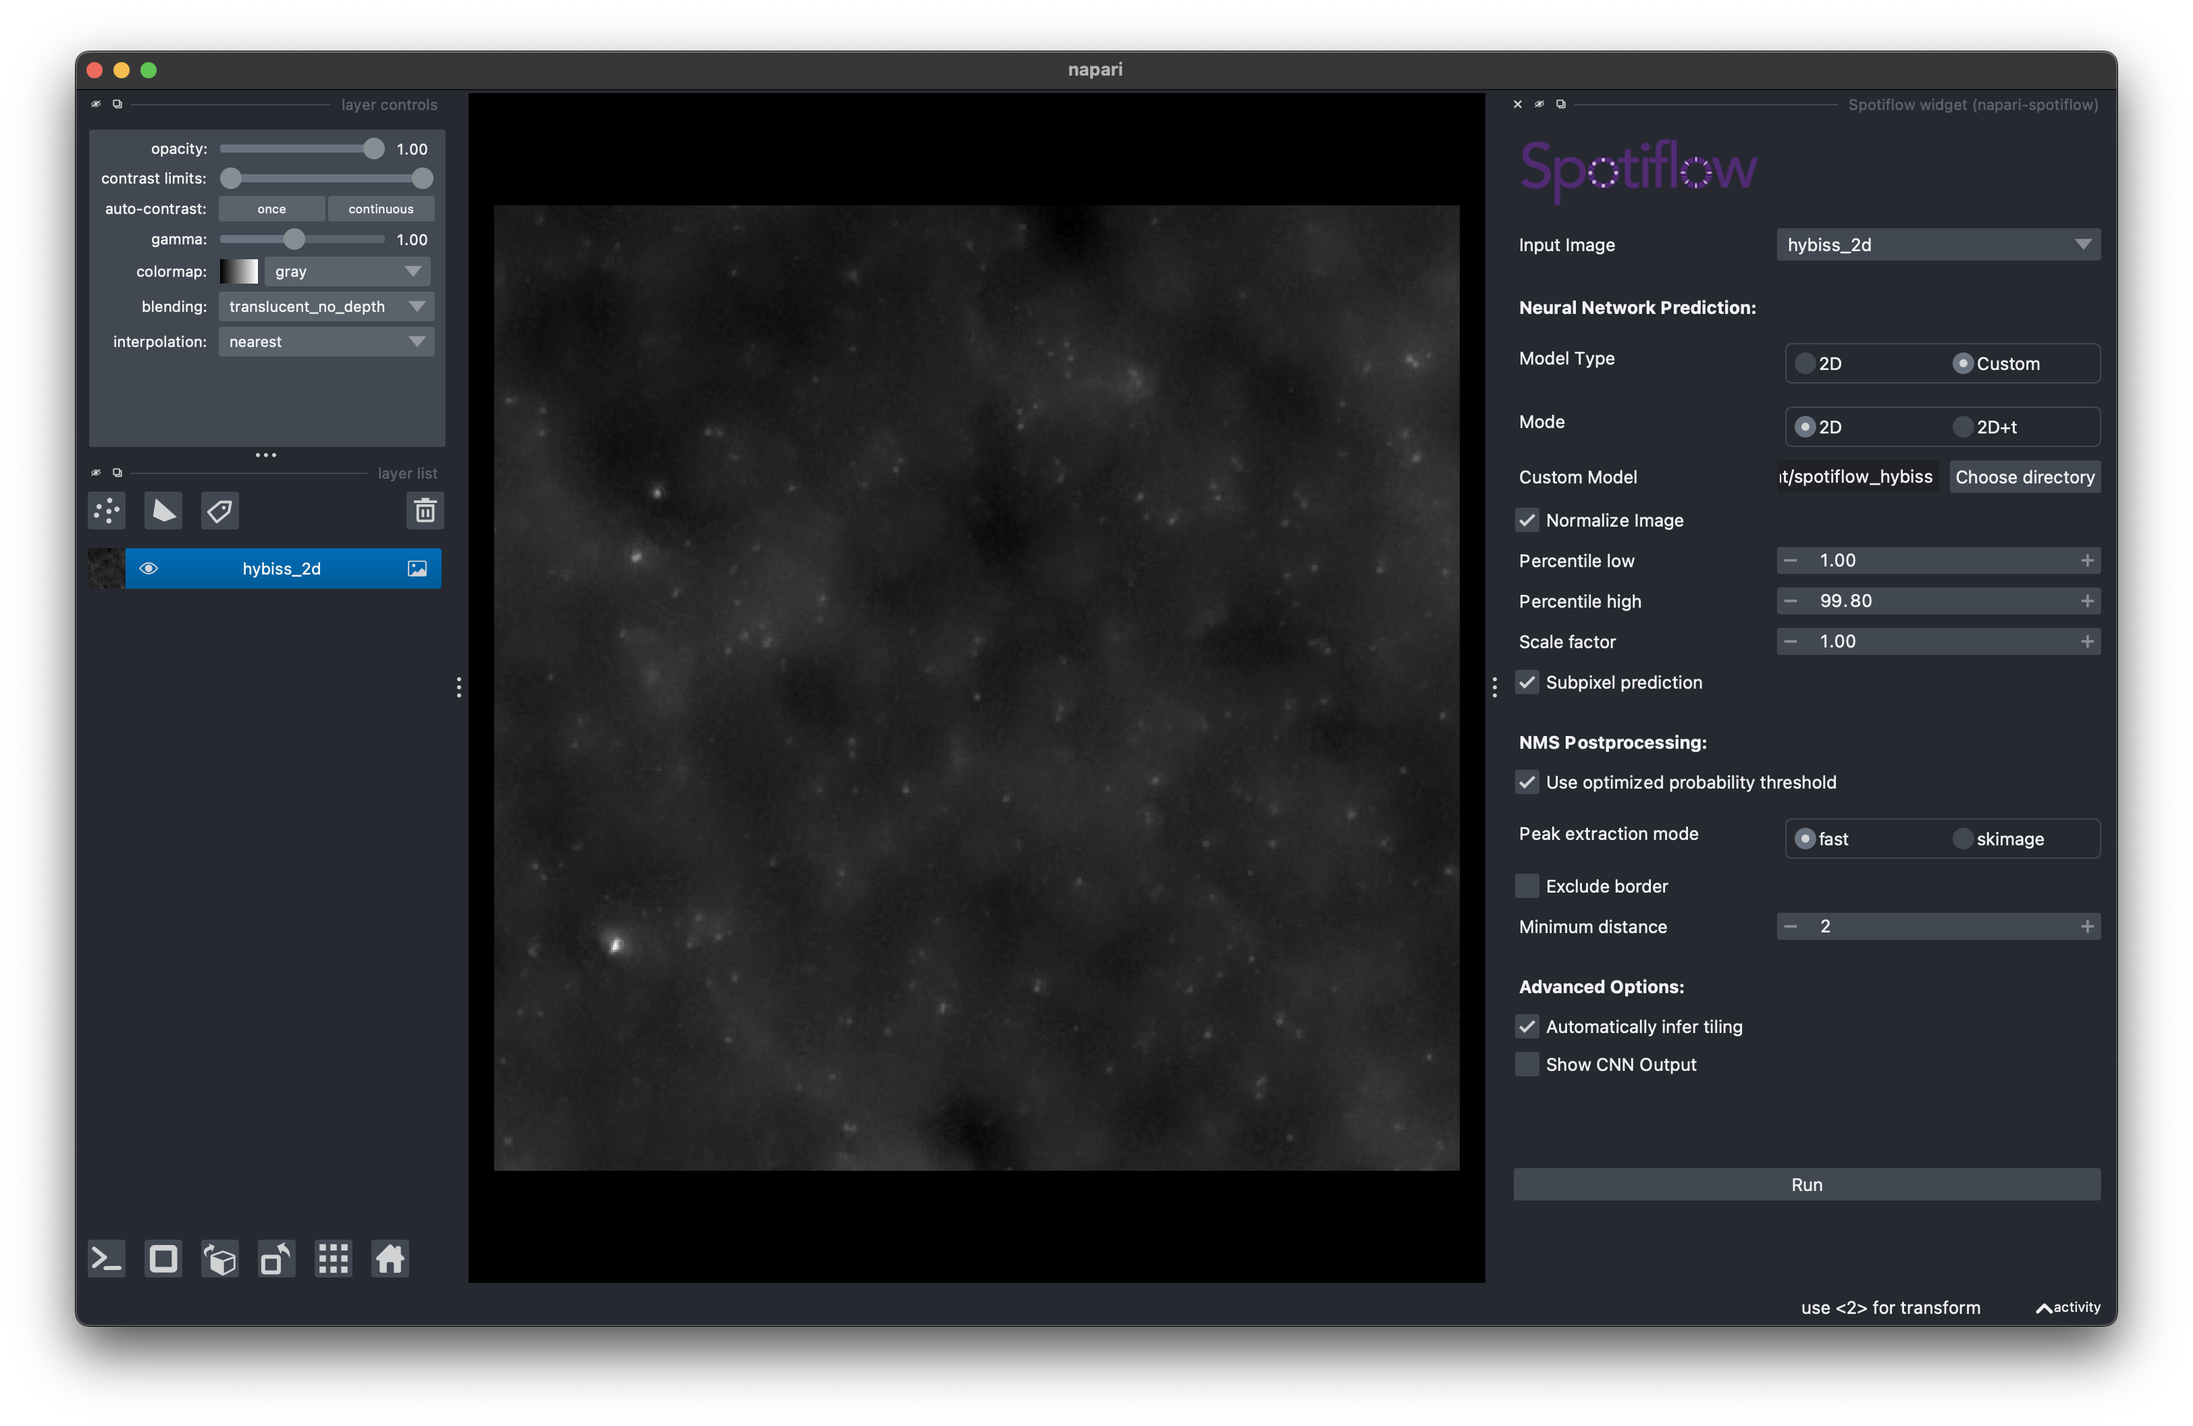
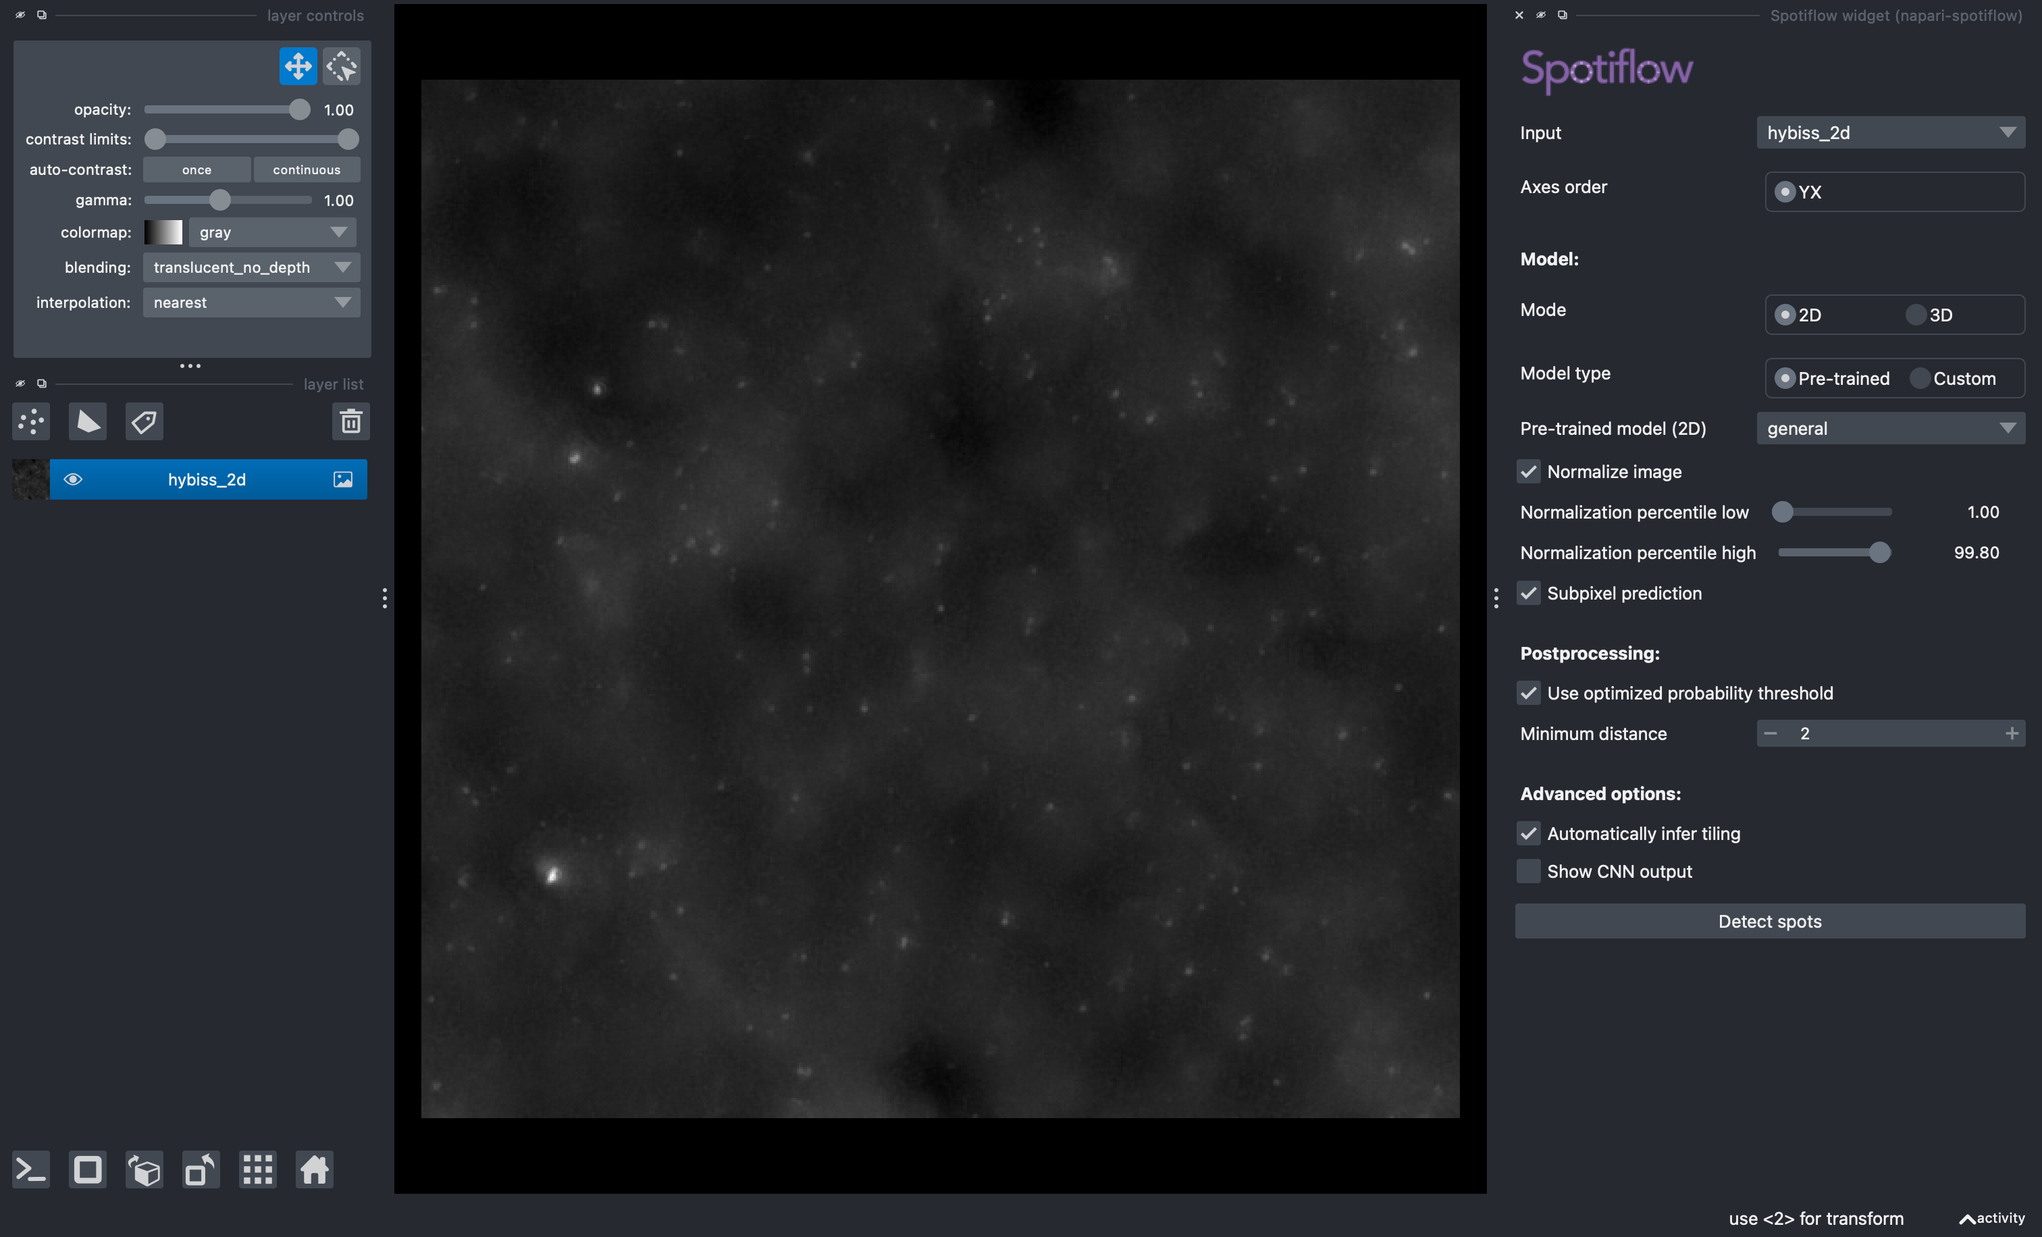
docs update

diff --git a/docs/source/index.rst b/docs/source/index.rst
@@ -9,25 +9,24 @@ Spotiflow is a learning-based subpixel-accurate spot detection method for 2D and
 Getting Started
 ---------------
 
-Installation
-~~~~~~~~~~~~
+Installation (pip)
+~~~~~~~~~~~~~~~~~~
 
 
-First, create and activate a fresh ``conda`` environment (we currently support Python 3.9 to 3.12). If you don't have ``conda`` installed, we recommend using `miniforge <https://github.com/conda-forge/miniforge>`__.
+First, create and activate a fresh ``conda`` environment (we currently support Python 3.9 to 3.13). If you don't have ``conda`` installed, we recommend using `miniforge <https://github.com/conda-forge/miniforge>`__.
 
 .. code-block:: console
 
    $ conda create -n spotiflow python=3.12
    $ conda activate spotiflow
 
-**Note (for MacOS users):** if using MacOS, there is a known bug causing the installation of PyTorch with conda to sometimes break OpenMP. You can avoid installing PyTorch with ``conda`` and let install it automatically via pip instead.
-Then, install Pytorch using ``conda``/ ``mamba``. Please follow the `official instructions for your system <https://pytorch.org/get-started/locally>`__.
-
-As an example, for a Linux system with CUDA (note that you should change the CUDA version to match the one installed on your system):
+Then, install PyTorch using ``pip``:
 
 .. code-block:: console
 
-   $ conda install pytorch torchvision pytorch-cuda=12.1 -c pytorch -c nvidia
+   $ pip install torch
+
+**Note (for Linux/Windows users with a CUDA-capable GPU)**: one might need to change the torch installation command depending on the CUDA version. Please refer to the `PyTorch website <https://pytorch.org/get-started/locally/>` for more information.
 
 **Note (for Windows users):** if using Windows, if using Windows, please install the latest `Build Tools for Visual Studio <https://visualstudio.microsoft.com/downloads/#build-tools-for-visual-studio-2022>`__ (make sure to select the C++ build tools during installation) before proceeding to install Spotiflow.
 
@@ -36,6 +35,16 @@ Finally, install ``spotiflow`` using ``pip``:
 .. code-block:: console
 
    $ pip install spotiflow
+
+
+Installation (conda)
+~~~~~~~~~~~~~~~~~~~~
+
+For Linux/MacOS users, you can also install Spotiflow using ``conda`` through the ``conda-forge``. For directly creating a fresh environment with Spotiflow named ``spotiflow``, you can use the following command:
+
+.. code-block:: console
+
+   $ conda create -n spotiflow -c conda-forge spotiflow python=3.12
 
 Predicting spots in an image
 ~~~~~~~~~~~~~~~~~~~~~~~~~~~~
@@ -67,7 +76,7 @@ The snippet below shows how to retrieve the spots from an image using one of the
    # Save the results to a CSV file
    write_coords_csv(spots, "/path/to/save/spots.csv")
 
-If a custom model is used, simply change the model loadings step to:
+If a custom model needs to be used, simply change the model loading step to:
 
 .. code-block:: python
 
@@ -80,9 +89,9 @@ You can use the CLI to run inference on an image or folder containing several im
 
 .. code-block:: console
 
-   $ spotiflow predict --input PATH
+   $ spotiflow-predict PATH
 
-where ``PATH`` can be either an image or a folder. By default, the command will use the ``general`` pretrained model. You can specify a different model by using the ``--pretrained-model`` flag. Moreover, spots are saved to a subfolder ``spotiflow_results`` created inside the input folder (this can be changed with the ``--out-dir`` flag). For more information, please refer to the help message of the CLI (``spotiflow-predict -h``).
+where ``PATH`` can be either point to an image file or to a folder containing different files. By default, the command will use the ``general`` pretrained model. You can specify a different model by using the ``--pretrained-model`` flag for the pre-trained models we offer or ``--model-dir`` if you want to use a custom model. After running, the detected spots are by default saved to a subfolder ``spotiflow_results`` created inside the input folder (this can be changed with the ``--out-dir`` flag). For more information, please refer to the help message of the CLI (simply run ``spotiflow-predict -h`` on your command line).
 
 Napari plugin
 ^^^^^^^^^^^^^
@@ -94,6 +103,7 @@ Contents
 .. toctree::
    :maxdepth: 2
 
+   installation
    napari
    cli
    pretrained

diff --git a/docs/source/train.rst b/docs/source/train.rst
@@ -50,9 +50,9 @@ You can train a model using the CLI as follows:
 
 .. code-block:: console
 
-    spotiflow-train /path/to/spots_data -o /my/trained/model
+    spotiflow-train /path/to/spots_data -o /path/to/my_trained_model
 
-where `/path/to/spots_data` is the path to the directory containing the data in the format described above and `/my/trained/model` is the directory where the trained model will be saved. You can also pass other parameters to the training, such as the number of epochs, the learning rate, etc. For more information on the arguments allowed, see the documentation of the CLI command:
+where `/path/to/spots_data` is the path to the directory containing the data in the format described above and `/path/to/my_trained_model` is the directory where the trained model will be saved. You can also pass other parameters to the training, such as the number of epochs, the learning rate, etc. For more information on the arguments allowed, see the documentation of the CLI command:
 
 .. code-block:: console
 
@@ -67,7 +67,7 @@ To illustrate with an example, to train a Spotiflow model on 2-channel 3D data f
 Basic training (API)
 ^^^^^^^^^^^^^^^^^^^^
 
-You can easily train a model using the default settings as follows and save it to the directory `/my/trained/model`:
+You can easily train a model using the default settings as follows and save it to the directory `/path/to/my_trained_model`:
 
 .. code-block:: python
 
@@ -86,7 +86,7 @@ You can easily train a model using the default settings as follows and save it t
         train_spots,
         val_imgs,
         val_spots,
-        save_dir="/my/trained/model",
+        save_dir="/path/to/my_trained_model",
     )
 
 You can then load it by simply calling:
@@ -95,8 +95,13 @@ You can then load it by simply calling:
 
     model = Spotiflow.from_folder("/my/trained/model")
 
+Or using the CLI command:
+.. code-block:: console
 
-In the 3D case, you should initialize a :py:mod:`spotiflow.model.config.SpotiflowModelConfig` object and pass it to the `Spotiflow` constructor with the appropriate parameter set (see other options for the configuration at the end of the section):
+    spotiflow-predict PATH --model-dir /path/to/my_trained_model ...
+
+
+Note that in order to train a 3D model using the API, you should initialize a :py:mod:`spotiflow.model.config.SpotiflowModelConfig` object and pass it to the `Spotiflow` constructor with the appropriate parameter set (see other options for the configuration at the end of the section):
 
 .. code-block:: python
 
@@ -133,7 +138,7 @@ You can also pass other parameters relevant for training to the `fit` method. Fo
         train_spots,
         val_imgs,
         val_spots,
-        save_dir="/my/trained/model",
+        save_dir="/path/to/my_trained_model",
         train_config=train_config,
         # other parameters
     )

diff --git a/docs/source/finetune.rst b/docs/source/finetune.rst
@@ -9,19 +9,19 @@ See :ref:`train:Data format`.
 Fine-tuning (CLI)
 ^^^^^^^^^^^^^^^^^
 
-You can fine-tune from an existing model by simply adding an argument to the CLI call. See :ref:`train:Basic training (CLI)` for more information.
+You can easily fine-tune from an existing model by simply adding an argument to the CLI call. See :ref:`train:Basic training (CLI)` for more information.
 
 .. code-block:: console
 
-    spotiflow-train /path/to/spots_data -o /my/trained/model --finetune-from general
+    spotiflow-train /path/to/spots_data -o /path/to/my_finetuned_model --finetune-from general
 
-where `/path/to/pretrained/model` is the path to the directory containing the model you want to fine-tune. You can also pass other parameters to the training, such as the number of epochs, the learning rate, etc. For more information on the arguments allowed, see the documentation of the CLI command:
+where `/path/to/my_finetuned_model` is the path to the directory containing the model you want to fine-tune. You can also pass other parameters to the training, such as the number of epochs, the learning rate, etc. For more information on the arguments allowed, please refer to the help message of the CLI (simply run ``spotiflow-train -h`` in your command line).
 
 
 Fine-tuning (API)
 ^^^^^^^^^^^^^^^^^
 
-Finetuning a pre-trained model on a custom dataset is very easy. You can load the model very similarly to what you would normally do to predict on new images (you only need to add one extra parameter!):
+In order to fine-tune a pre-trained model on a custom dataset using the API, you can simply load the model very similarly to what you would normally do to predict on new images (you only need to add one extra parameter!):
 
 .. code-block:: python
 
@@ -43,7 +43,7 @@ Finetuning a pre-trained model on a custom dataset is very easy. You can load th
         train_spots,
         val_imgs,
         val_spots,
-        save_dir="/my/trained/model",
+        save_dir="/path/to/my_finetuned_model",
     )
 
 Of course, you can also fine-tune from a model you have trained before. In that case, use the ``from_folder()`` method instead of ``from_pretrained()`` (see :ref:`index:Predicting spots in an image`).

diff --git a/docs/source/napari.rst b/docs/source/napari.rst
@@ -7,15 +7,15 @@ The napari plugin can be used to predict spots in a napari viewer. First, you mu
 
     (spotiflow) $ pip install napari-spotiflow
 
-The plugin will then be available in the napari GUI under the name "Spotiflow widget". This is how the GUI looks like:
+The plugin will then be available in the napari GUI under the name ``Spotiflow widget``. This is how the GUI looks like:
 
 .. image:: ./_static/spotiflow_napari_gui.png
     :width: 700
     :align: center
 
-The plugin allows running on two modes: for images (``2D``) and volumes (``3D``), which can be toggled using the corresponding  buttons in the GUI. You can also run on movies by setting the appropriate axis order (should be leading with a `T`).
+The plugin allows running on two modes: for images (``2D``) and volumes (``3D``), which can be toggled using the corresponding buttons in the GUI. Spotiflow can also be run on time-lapses by setting the appropriate axis order (should be leading with a `T`).
 
-Upon pressing the button ``Run``, The plugin will create a ``Points`` layer containing the predicted spots:
+Upon pressing the button ``Detect spots``, The plugin will create a ``Points`` layer containing the predicted spots:
 
 .. image:: ./_static/spotiflow_napari_preds.png
     :width: 700
@@ -23,4 +23,4 @@ Upon pressing the button ``Run``, The plugin will create a ``Points`` layer cont
 
 If the option ``Show CNN output`` is checked, the plugin will also create two ``Image`` layers containing the heatmap output of the CNN as well as the stereographic flow.
 
-Finally, the plugin includes two sample 2D images (HybISS and Terra) as well as a synthetic 3D volume. These samples can be loaded from the ``File`` menu (``File -> Open sample -> napari-spotiflow``). You can try the plugin with these samples to get a better idea of how it works!
+Finally, the plugin includes two sample 2D images (``HybISS`` and ``Terra``), a synthetic 3D volume (``Synthetic (3D)``) and a time-lapse (``Telomeres (2D+t)``). These samples can be loaded from the ``File`` menu (``File -> Open sample -> napari-spotiflow``). You can try using the plugin with these samples to get a better idea of how it works!

diff --git a/docs/source/pretrained.rst b/docs/source/pretrained.rst
@@ -3,11 +3,11 @@ Available pre-trained models
 
 The following pre-trained models are available (for a more detailed description, please refer to the *Methods* section of the paper as well as *Supplementary Table 2*):
 
-- ``general``: trained on a diverse dataset of spots of different modalities acquired in different microscopes with different settings. This model is the default one used in the CLI (pixel sizes: 0.04µm, 0.1µm, 0.11µm, 0.15µm, 0.32µm, 0.34µm).
-- ``hybiss``: trained on HybISS data acquired in 3 different microscopes (pixel sizes: 0.15µm, 0.32µm, 0.34µm).
-- ``synth_complex``: trained on synthetic data, which includes simulations of aberrated spots and fluorescence background (pixel size: 0.1µm).
-- ``synth_3d``: trained on synthetic 3D data, which includes simulations of aberrated spots and Z-related artifacts (voxel size: 0.2µm).
-- ``smfish_3d``: fine-tuned from the ``synth_3d`` model on smFISH 3D data of *Platynereis dumerilii* (voxel size: 0.13µm (YX), 0.48µm (Z)).
+- ``general``: trained on a diverse dataset of spots of different modalities acquired in different microscopes with different settings. This model is the default one used in the CLI (pixel sizes: 0.04 µm, 0.1 µm, 0.11 µm, 0.15 µm, 0.32 µm, 0.34 µm).
+- ``hybiss``: trained on HybISS data acquired in 3 different microscopes (pixel sizes: 0.15 µm, 0.32 µm, 0.34 µm).
+- ``synth_complex``: trained on synthetic data, which includes simulations of aberrated spots and fluorescence background (pixel size: 0.1 µm).
+- ``synth_3d``: trained on synthetic 3D data, which includes simulations of aberrated spots and Z-related artifacts (voxel size: 0.2 µm).
+- ``smfish_3d``: fine-tuned from the ``synth_3d`` model on smFISH 3D data of *Platynereis dumerilii* (voxel size: 0.13 µm (YX), 0.48 µm (Z)).
 
 You can use these models to predict spots in images or to fine-tune them on a few annotations of your own data. The models can be loaded via the API as follows:
 

diff --git a/docs/source/installation.rst b/docs/source/installation.rst
@@ -1,0 +1,39 @@
+Installation instructions
+-------------------------
+
+Installation (pip)
+~~~~~~~~~~~~~~~~~~
+
+
+First, create and activate a fresh ``conda`` environment (we currently support Python 3.9 to 3.13). If you don't have ``conda`` installed, we recommend using `miniforge <https://github.com/conda-forge/miniforge>`__.
+
+.. code-block:: console
+
+   $ conda create -n spotiflow python=3.12
+   $ conda activate spotiflow
+
+Then, install PyTorch using ``pip``:
+
+.. code-block:: console
+
+   $ pip install torch
+
+**Note (for Linux/Windows users with a CUDA-capable GPU)**: one might need to change the torch installation command depending on the CUDA version. Please refer to the `PyTorch website <https://pytorch.org/get-started/locally/>` for more information.
+
+**Note (for Windows users):** if using Windows, if using Windows, please install the latest `Build Tools for Visual Studio <https://visualstudio.microsoft.com/downloads/#build-tools-for-visual-studio-2022>`__ (make sure to select the C++ build tools during installation) before proceeding to install Spotiflow.
+
+Finally, install ``spotiflow`` using ``pip``:
+
+.. code-block:: console
+
+   $ pip install spotiflow
+
+
+Installation (conda)
+~~~~~~~~~~~~~~~~~~~~
+
+For Linux/MacOS users, you can also install Spotiflow using ``conda`` through the ``conda-forge``. For directly creating a fresh environment with Spotiflow named ``spotiflow``, you can use the following command:
+
+.. code-block:: console
+
+   $ conda create -n spotiflow -c conda-forge spotiflow python=3.12

diff --git a/docs/source/cli.rst b/docs/source/cli.rst
@@ -7,6 +7,6 @@ You can use the CLI to run inference on an image or folder containing several im
 
 .. code-block:: console
 
-   $ spotiflow predict --input PATH
+   $ spotiflow-predict PATH
 
-where ``PATH`` can be either an image or a folder. By default, the command will use the ``general`` pretrained model. You can specify a different model by using the ``--pretrained-model`` flag. Moreover, spots are saved to a subfolder ``spotiflow_results`` created inside the input folder (this can be changed with the ``--out-dir`` flag). For more information, please refer to the help message of the CLI (``spotiflow-predict -h``).
+where ``PATH`` can be either point to an image file or to a folder containing different files. By default, the command will use the ``general`` pretrained model. You can specify a different model by using the ``--pretrained-model`` flag for the pre-trained models we offer or ``--model-dir`` if you want to use a custom model. After running, the detected spots are by default saved to a subfolder ``spotiflow_results`` created inside the input folder (this can be changed with the ``--out-dir`` flag). For more information, please refer to the help message of the CLI (simply run ``spotiflow-predict -h`` on your command line).

diff --git a/docs/source/api.rst b/docs/source/api.rst
@@ -2,7 +2,7 @@ API Reference
 -------------
 
 .. autoclass:: spotiflow.model.spotiflow.Spotiflow
-    :members: from_pretrained, from_folder, predict, fit, save, load, optimize_threshold
+    :members: from_pretrained, from_folder, predict, fit, save, optimize_threshold
 
 .. autoclass:: spotiflow.model.config.SpotiflowModelConfig
     :members:
@@ -15,8 +15,16 @@ API Reference
 
     .. automethod:: __init__
 
+.. autoclass:: spotiflow.data.spots3d.Spots3DDataset
+    :members:
+
+    .. automethod:: __init__
+
 .. automodule:: spotiflow.utils
     :members: get_data, read_coords_csv, write_coords_csv, normalize
 
 .. automodule:: spotiflow.sample_data
     :members:
+
+.. autoclass:: spotiflow.starfish.SpotiflowDetector
+    :members: run
